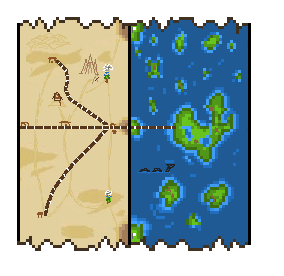
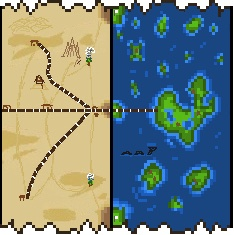
changed map, still working on login

diff --git a/Practice/reactv2-16-practice/CMTAC/8.cmtac-stylingwsemantic/client/src/components/App.js b/Practice/reactv2-16-practice/CMTAC/8.cmtac-stylingwsemantic/client/src/components/App.js
@@ -1,7 +1,7 @@
 import React, { Component } from 'react';
 import { Link } from 'react-router-dom';
 
-import { Header, Image } from 'semantic-ui-react';
+import { Header, Image} from 'semantic-ui-react';
 import '../App.css';
 import logo from './../images/cmtacSign.png';
 import map from './../images/map_colored.jpeg';
@@ -25,7 +25,7 @@ class App extends Component {
           <div><Link to="/login">Login</Link></div>
           <div>{' '}Presented by the Mayors Cross Map Townsmanship Aficionados Club</div>
         </Header>
-        <Image src={map} verticalAlign='middle'/>
+        <Image className="App-Map" src={map} verticalAlign='middle'/>
         <h3>The story so far</h3>
       </div>
     );

diff --git a/Practice/reactv2-16-practice/CMTAC/8.cmtac-stylingwsemantic/client/src/App.css b/Practice/reactv2-16-practice/CMTAC/8.cmtac-stylingwsemantic/client/src/App.css
@@ -1,11 +1,10 @@
 .App {
   text-align: center;
-  overflow: hidden;
 }
 
 .App-logo {
   /* animation: App-logo-spin infinite 20s linear; */
-  height: 80px;
+  /* height: 80px; */
 }
 
 .App-header {
@@ -23,19 +22,11 @@
   font-size: large;
 }
 
+.App-Map{
+  padding-top: -100;
+}
+
 /* @keyframes App-logo-spin {
   from { transform: rotate(0deg); }
   to { transform: rotate(360deg); }
-} */
-/* {
-  "palette": {
-      "primary2Color": "#00e5ff",
-      "primary1Color": "rgba(100, 221, 23, 0.97)",
-      "primary3Color": "#00c853",
-      "accent1Color": "#388e3c",
-      "pickerHeaderColor": "#00e5ff"
-  },
-  "textField": {
-      "errorColor": "#64dd17"
-  }
 } */
